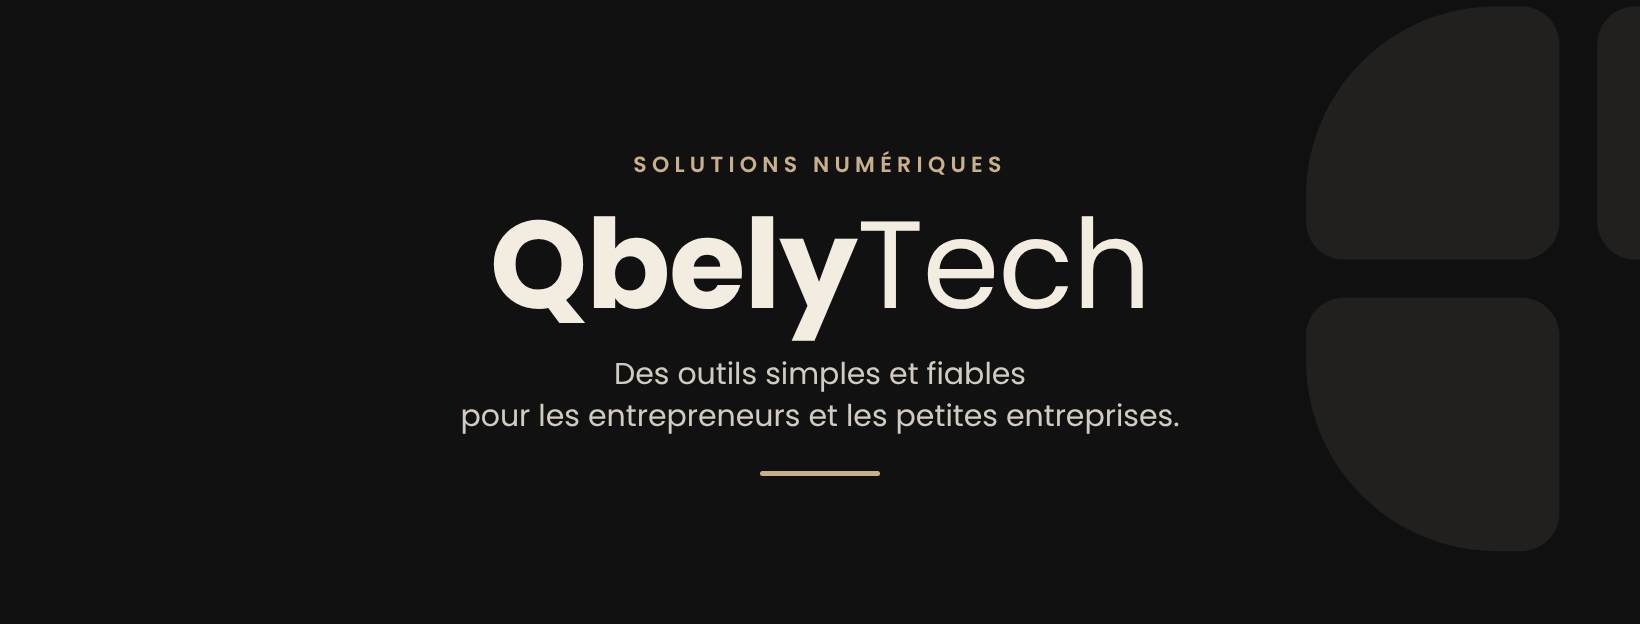
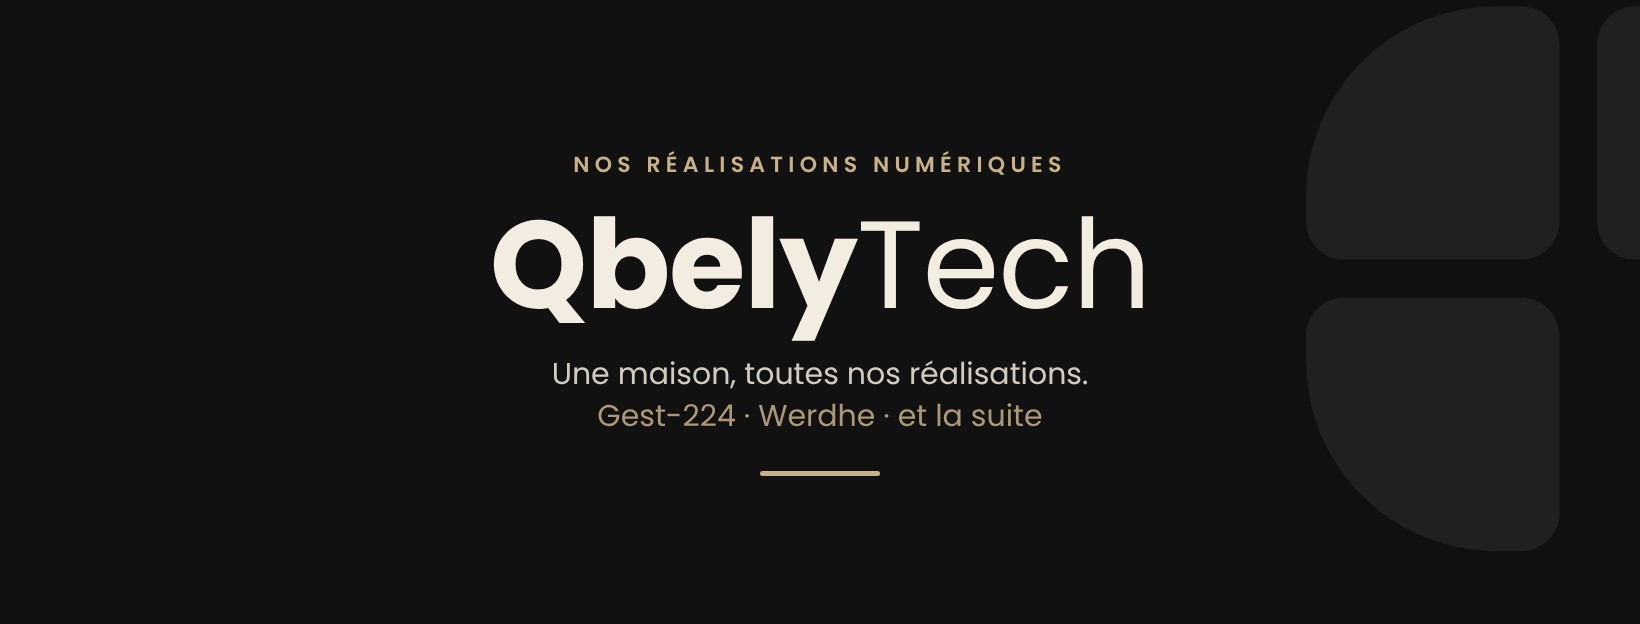
Positionne QbelyTech comme structure regroupant toutes les réalisations
Bios, « À propos » et premier post présentent QbelyTech comme la maison de
Gest-224, Werdhe et des projets suivants ; nouveau visuel « Nos
réalisations » et accroche de couverture mise à jour ; règles pour
organiser les publications par réalisation (numéro, hashtag, playlist).

Claude-Session: https://claude.ai/code/session_011NHSXzYX7zes55TYcKpkVX

Changed region(s): [[0.2799, 0.5785, 0.7152, 0.7003], [0.3421, 0.2436, 0.653, 0.274]]

diff --git a/docs/reseaux-sociaux/generer-visuels.js b/docs/reseaux-sociaux/generer-visuels.js
@@ -20,6 +20,8 @@ const surtitre = (s, couleur) => `<span style="font-weight:600;letter-spacing:.2
 const logotype = (taille, couleur) => `<span style="font-size:${taille}px;color:${couleur};letter-spacing:-.01em;line-height:1"><b style="font-weight:700">Qbely</b><span style="font-weight:400">Tech</span></span>`;
 const img = (taille, extra = '') => `<img src="${symbole}" style="width:${taille}px;height:${taille}px;display:block;${extra}">`;
 
+const REALISATIONS = [['01', 'Gest-224'], ['02', 'Werdhe'], ['03', null]];
+
 const designs = {
   // Symbole seul : lisible une fois rogné en rond par Facebook et TikTok.
   'photo-profil': [1080, 1080, `<div style="width:1080px;height:1080px;background:${C.noir};display:flex;align-items:center;justify-content:center">${img(700)}</div>`],
@@ -28,10 +30,22 @@ const designs = {
   'couverture-facebook': [1640, 624, `<div style="width:1640px;height:624px;background:${C.noir};position:relative;overflow:hidden">
     <div style="position:absolute;right:-300px;top:-20px;opacity:.07">${img(660)}</div>
     <div style="position:absolute;left:300px;right:300px;top:0;bottom:0;display:flex;flex-direction:column;justify-content:center;align-items:center;text-align:center">
-      <div style="font-size:22px">${surtitre('Solutions numériques', C.beige)}</div>
+      <div style="font-size:22px">${surtitre('Nos réalisations numériques', C.beige)}</div>
       <div style="margin:22px 0 26px">${logotype(124, C.ivoire)}</div>
-      <div style="font-size:30px;color:${C.ivoire};opacity:.85;line-height:1.4">Des outils simples et fiables<br>pour les entrepreneurs et les petites entreprises.</div>
+      <div style="font-size:30px;color:${C.ivoire};opacity:.85;line-height:1.4">Une maison, toutes nos réalisations.<br><span style="color:${C.beige}">Gest-224 · Werdhe · et la suite</span></div>
       <div style="margin-top:34px;height:5px;width:120px;border-radius:3px;background:${C.beige}"></div></div></div>`],
+
+  // Présente QbelyTech comme la structure qui regroupe toutes les réalisations.
+  // Ajoutez une ligne à REALISATIONS à chaque nouveau projet.
+  'post-nos-realisations': [1080, 1350, `<div style="width:1080px;height:1350px;background:${C.noir};color:${C.ivoire};padding:90px 84px;display:flex;flex-direction:column">
+    <div style="display:flex;align-items:center;gap:22px">${img(84, 'border-radius:12px')}${logotype(44, C.ivoire)}</div>
+    <div style="font-size:24px;margin-top:80px">${surtitre('Une maison, plusieurs réalisations', C.beige)}</div>
+    <div style="font-size:72px;font-weight:700;line-height:1.1;letter-spacing:-.01em;margin-top:22px">Tout ce que nous<br>construisons, au même endroit.</div>
+    <div style="margin-top:64px;display:grid;gap:22px">
+      ${REALISATIONS.map(([num, nom]) => `<div style="display:flex;align-items:center;gap:30px;padding:30px 36px;border-radius:24px;background:${nom ? C.gris : 'transparent'};border:2px ${nom ? 'solid' : 'dashed'} ${nom ? C.gris : 'rgba(243,236,224,.25)'}">
+        <span style="font-size:30px;font-weight:600;color:${C.beige};width:64px;flex:none">#${num}</span>
+        <span style="font-size:52px;font-weight:${nom ? 700 : 400};${nom ? '' : 'opacity:.5'}">${nom || 'Bientôt…'}</span></div>`).join('')}</div>
+    <div style="margin-top:auto;font-size:28px;opacity:.75">Abonnez-vous pour suivre chaque nouvelle réalisation.</div></div>`],
 
   'post-realisation-gest-224': [1080, 1350, `<div style="width:1080px;height:1350px;background:${C.ivoire};color:${C.noir};padding:90px 84px;display:flex;flex-direction:column">
     <div style="display:flex;justify-content:space-between;align-items:center;font-size:22px">${surtitre('Nouvelle réalisation', C.noir)}${logotype(30, C.noir)}</div>

diff --git a/docs/reseaux-sociaux/README.md b/docs/reseaux-sociaux/README.md
@@ -1,7 +1,11 @@
 # Kit réseaux sociaux QbelyTech - Facebook & TikTok
 
 Tout ce qu'il faut pour lancer les comptes **QbelyTech** de zéro et y publier
-les réalisations (à commencer par Gest-224) et des publicités.
+toutes les réalisations (Gest-224, Werdhe et les suivantes) et des publicités.
+
+**QbelyTech est la structure qui chapeaute tous vos projets.** Il y a donc
+**un seul compte QbelyTech par plateforme**, où chaque réalisation a sa série
+de publications (voir section 4).
 
 > **Important** : la création elle-même des comptes doit être faite par vous.
 > Facebook et TikTok exigent une vérification par SMS/email, l'acceptation des
@@ -50,20 +54,24 @@ les deux plateformes.
 
 **Bio courte (≤ 100 caractères)**
 ```
-Solutions numériques pour entrepreneurs et petites entreprises. Créateurs de Gest-224.
+La maison de nos réalisations numériques : Gest-224, Werdhe… et la suite.
 ```
 
 **Section « À propos » (longue)**
 ```
-QbelyTech conçoit des outils numériques simples, fiables et pensés pour le
-quotidien des entrepreneurs, auto-entrepreneurs et petites entreprises.
+QbelyTech est la structure qui conçoit, développe et fait grandir nos
+projets numériques. Chaque réalisation est un produit à part entière, avec
+la même exigence : simple, fiable et utile au quotidien.
 
-Notre première réalisation, Gest-224, gère toute la chaîne commerciale :
-devis, bons de commande, bons de livraison, factures, factures d'acompte et
-avoirs, avec une comptabilité simplifiée intégrée.
+Nos réalisations :
+• Gest-224 - la gestion commerciale complète des petites entreprises :
+  devis, bons de commande et de livraison, factures, acomptes et avoirs,
+  avec une comptabilité simplifiée intégrée.
+• Werdhe - [une phrase de présentation]
+• … et d'autres en préparation.
 
-Sur cette page : nos réalisations, nos nouveautés, des conseils pratiques de
-gestion et les coulisses de nos projets.
+Sur cette page : chaque nouvelle réalisation, les nouveautés de nos
+produits et les coulisses de nos projets.
 
 📩 [email]  📞 [téléphone]  🌐 [site web]
 ```
@@ -95,11 +103,11 @@ gestion et les coulisses de nos projets.
 - **Photo** : `visuels/photo-profil.png`
 - **Bio (≤ 80 caractères)** :
 ```
-💻 Logiciels pour entrepreneurs
-🧾 Gest-224 : devis → facture
+🧩 Toutes nos réalisations numériques
+🧾 Gest-224 · Werdhe · et la suite
 👇 Découvrir
 ```
-- **Lien** : `[site web de Gest-224]`
+- **Lien** : une seule adresse qui liste toutes les réalisations (page QbelyTech de votre site, ou une page de liens type Linktree / Beacons gratuite) - pas le site d'un seul produit.
 - **Email de contact** : l'email dédié.
 
 ### 2.3 Publicité TikTok
@@ -133,20 +141,31 @@ Basée sur le logo officiel : `visuels/logo-qbelytech.png` (logo complet) et
 
 ## 4. Premières publications (prêtes à poster)
 
+### Comment organiser les publications
+Un seul compte, plusieurs réalisations : chaque projet a son **numéro**
+(Réalisation #01 Gest-224, #02 Werdhe…), son **hashtag** (`#Gest224`,
+`#Werdhe`) et, sur TikTok, sa **playlist**, pour que chacun trouve vite le
+produit qui l'intéresse. Le hashtag `#QbelyTech` va sur tout.
+Ouvrez un compte séparé pour un produit seulement le jour où il a sa propre
+communauté ; d'ici là, tout regroupé sous QbelyTech, c'est plus de visibilité.
+
 ### Post 1 - Présentation (Facebook, épinglé)
-Visuel : `logo-qbelytech.png`
+Visuel : `post-nos-realisations.png`
 ```
 Bonjour à tous 👋 Bienvenue sur la page officielle de QbelyTech !
 
-Nous concevons des outils numériques simples et fiables pour les
-entrepreneurs et les petites entreprises.
+QbelyTech, c'est la maison de nos réalisations numériques. Chaque projet y
+naît, grandit et vous est présenté ici :
+🧾 #01 Gest-224 - la gestion commerciale, du devis à la facture
+🧩 #02 Werdhe - [une phrase de présentation]
+🔜 #03 - bientôt…
 
-Ici, vous découvrirez nos réalisations, nos nouveautés et des conseils
-pratiques pour mieux gérer votre activité.
+Ici, vous suivrez chaque nouvelle réalisation, les nouveautés et les
+coulisses de nos projets.
 
 Abonnez-vous pour suivre l'aventure 🚀
 
-#QbelyTech #Entrepreneuriat #Digital #PetiteEntreprise
+#QbelyTech #Gest224 #Werdhe #Digital #Innovation
 ```
 
 ### Post 2 - Réalisation #01 : Gest-224 (Facebook + TikTok)
@@ -191,7 +210,7 @@ sur TikTok.
 
 | Semaine | Facebook (2-3 posts/sem.) | TikTok (3-4 vidéos/sem.) |
 |---|---|---|
-| 1 | Post 1 présentation (épinglé), Post 2 Gest-224 | Vidéo 1 + 2 vidéos coulisses courtes |
+| 1 | Post 1 présentation (épinglé), Post 2 Gest-224, Post Werdhe | Vidéo 1 + 2 vidéos coulisses courtes |
 | 2 | Carrousel captures d'écran Gest-224, conseil de gestion | Vidéo 3 conseil, 1 tutoriel, 1 tendance adaptée |
 | 3 | Témoignage / premier utilisateur, FAQ | Réponses aux commentaires en vidéo, 1 tuto |
 | 4 | **1re pub** : booster le post le plus performant | **1re promo** : promouvoir la vidéo la plus vue |
@@ -215,7 +234,7 @@ fonctionne.
 - [ ] Post 1 publié et épinglé, Post 2 publié
 - [ ] 3 premières vidéos TikTok tournées et publiées
 - [ ] Liens croisés : lien TikTok sur la Page Facebook, et inversement
-- [ ] Liens Facebook/TikTok ajoutés au pied de page du site Gest-224
+- [ ] Liens Facebook/TikTok ajoutés sur le site de chaque réalisation (Gest-224, Werdhe…)
 
 ---
 
